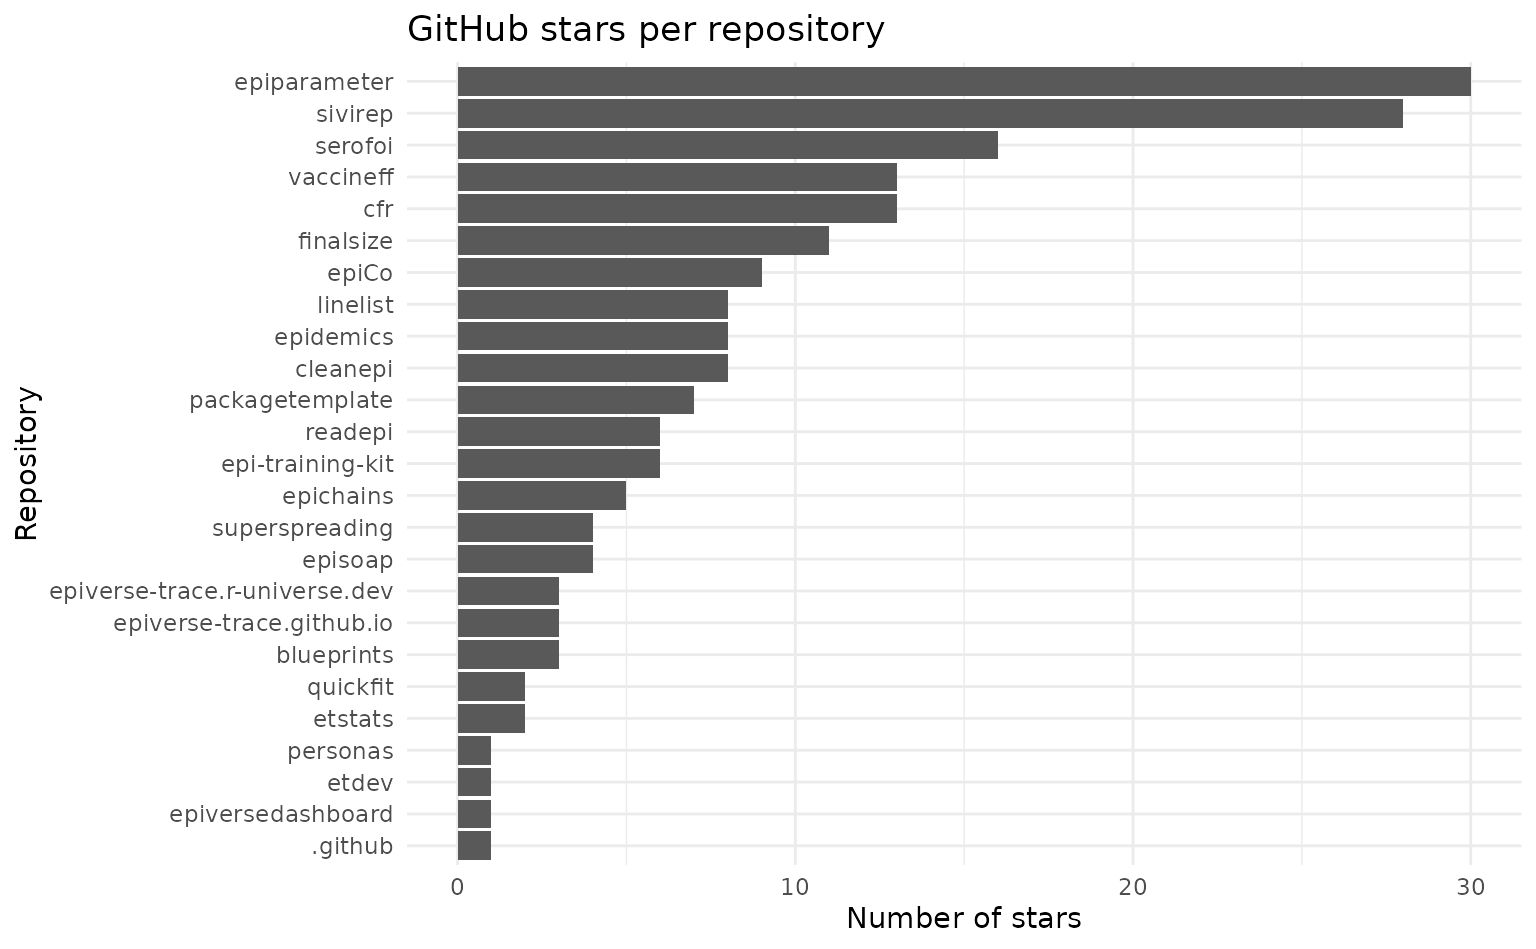
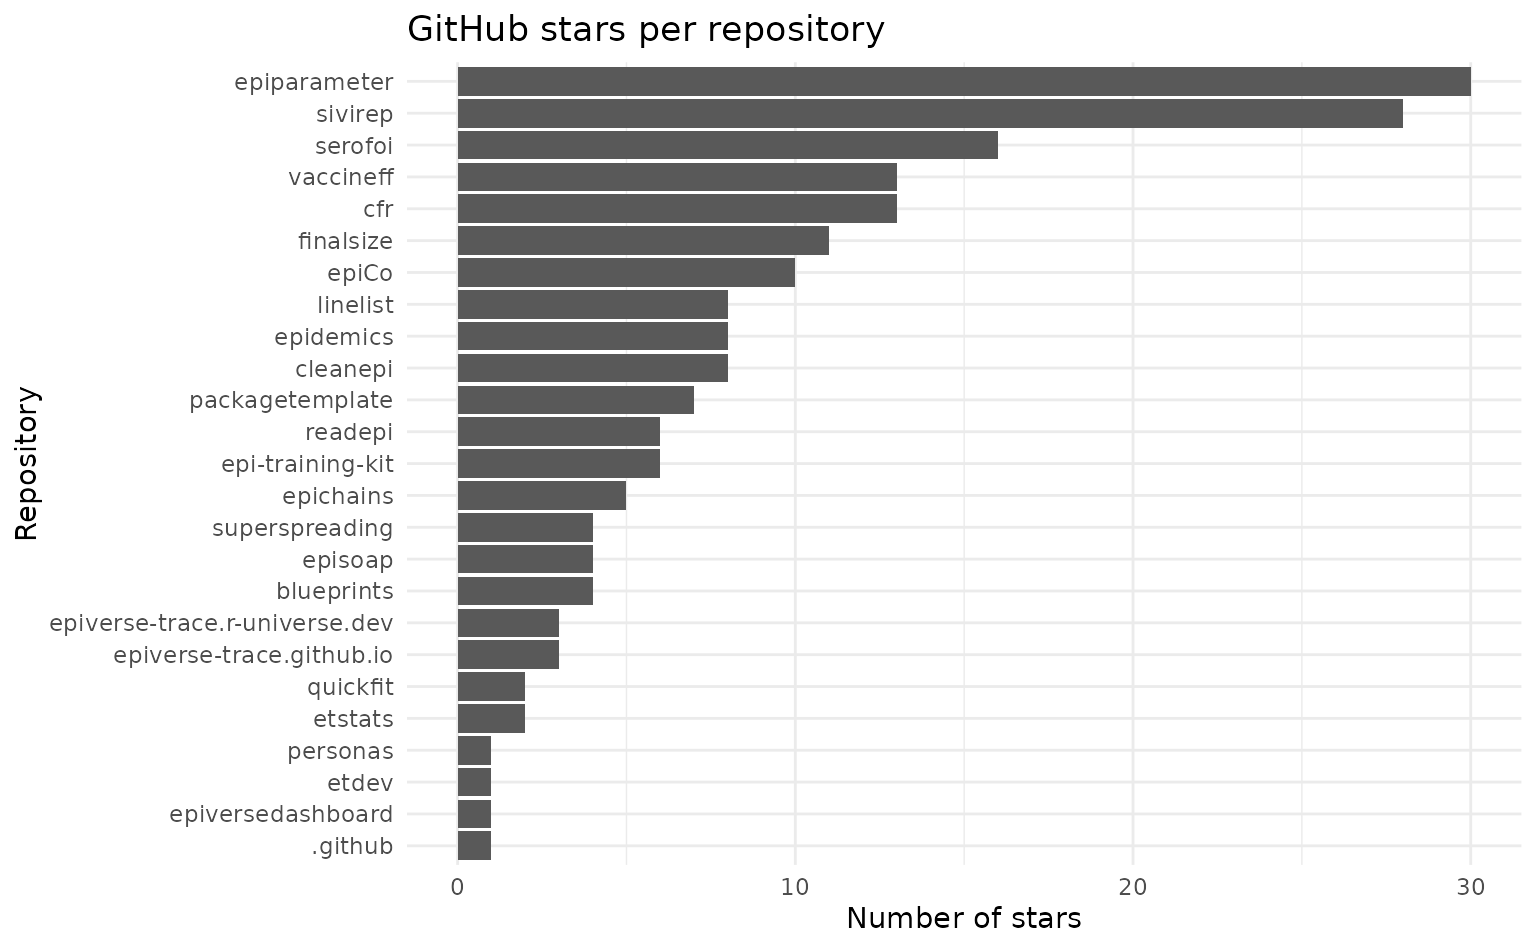
Deploying to gh-pages from @ epiverse-trace/etstats@c73ed3583c87a1893495698bd6479e8f2f792dd1 🚀

Changed region(s): [[0.0312, 0.6112, 0.25, 0.7028], [0.4688, 0.275, 0.5312, 0.3056], [0.3438, 0.6112, 0.4062, 0.6417]]

diff --git a/articles/cran-statistics.html b/articles/cran-statistics.html
@@ -74,7 +74,7 @@
 
       <h1>CRAN statistics</h1>
             
-            <h4 data-toc-skip class="date">2024-08-26</h4>
+            <h4 data-toc-skip class="date">2024-08-27</h4>
       
       <small class="dont-index">Source: <a href="https://github.com/epiverse-trace/etstats/blob/main/vignettes/cran-statistics.Rmd" class="external-link"><code>vignettes/cran-statistics.Rmd</code></a></small>
       <div class="d-none name"><code>cran-statistics.Rmd</code></div>
@@ -91,7 +91,7 @@
 <li><a href="https://cran.r-project.org/package=linelist" class="external-link">linelist</a></li>
 <li><a href="https://cran.r-project.org/package=finalsize" class="external-link">finalsize</a></li>
 </ul>
-<p>In total, Epiverse-TRACE packages on CRAN have been downloaded 26333
+<p>In total, Epiverse-TRACE packages on CRAN have been downloaded 26351
 times.</p>
 <p>Below is a visualization of the breakdown of this grand total by
 package over time.</p>
@@ -108,43 +108,43 @@ package over time.</p>
 <td align="left">finalsize</td>
 <td align="right">260</td>
 <td align="right">2881</td>
-<td align="right">2307</td>
+<td align="right">2311</td>
 </tr>
 <tr class="even">
 <td align="left">linelist</td>
 <td align="right">3712</td>
 <td align="right">4898</td>
-<td align="right">5851</td>
+<td align="right">5859</td>
 </tr>
 <tr class="odd">
 <td align="left">cfr</td>
 <td align="right">NA</td>
 <td align="right">364</td>
-<td align="right">3313</td>
+<td align="right">3316</td>
 </tr>
 <tr class="even">
 <td align="left">cleanepi</td>
 <td align="right">NA</td>
 <td align="right">NA</td>
-<td align="right">709</td>
+<td align="right">710</td>
 </tr>
 <tr class="odd">
 <td align="left">epiCo</td>
 <td align="right">NA</td>
 <td align="right">NA</td>
-<td align="right">432</td>
+<td align="right">433</td>
 </tr>
 <tr class="even">
 <td align="left">numberize</td>
 <td align="right">NA</td>
 <td align="right">NA</td>
-<td align="right">1606</td>
+<td align="right">1607</td>
 </tr>
 <tr class="odd">
 <td align="left">Total</td>
 <td align="right">3972</td>
 <td align="right">8143</td>
-<td align="right">14218</td>
+<td align="right">14236</td>
 </tr>
 </tbody>
 </table></main>

diff --git a/articles/github-statistics.html b/articles/github-statistics.html
@@ -74,7 +74,7 @@
 
       <h1>GitHub statistics</h1>
             
-            <h4 data-toc-skip class="date">2024-08-26</h4>
+            <h4 data-toc-skip class="date">2024-08-27</h4>
       
       <small class="dont-index">Source: <a href="https://github.com/epiverse-trace/etstats/blob/main/vignettes/github-statistics.Rmd" class="external-link"><code>vignettes/github-statistics.Rmd</code></a></small>
       <div class="d-none name"><code>github-statistics.Rmd</code></div>
@@ -85,7 +85,7 @@
 <div class="section level2">
 <h2 id="github-followers">GitHub followers<a class="anchor" aria-label="anchor" href="#github-followers"></a>
 </h2>
-<p>Our Epiverse-TRACE GitHub organization currently has 150
+<p>Our Epiverse-TRACE GitHub organization currently has 151
 followers.</p>
 </div>
 <div class="section level2">
@@ -94,8 +94,8 @@ followers.</p>
 <div class="section level3">
 <h3 id="totals">Totals<a class="anchor" aria-label="anchor" href="#totals"></a>
 </h3>
-<p>In total, we have 193 stars across all Epiverse-TRACE packages. These
-stars come from 114 unique users.</p>
+<p>In total, we have 195 stars across all Epiverse-TRACE packages. These
+stars come from 116 unique users.</p>
 <p><img src="github-statistics_files/figure-html/unnamed-chunk-5-1.png" width="768"></p>
 </div>
 <div class="section level3">
@@ -174,7 +174,7 @@ stars come from 114 unique users.</p>
 <td align="left">epiCo</td>
 <td align="right">0</td>
 <td align="right">3</td>
-<td align="right">6</td>
+<td align="right">7</td>
 </tr>
 <tr class="even">
 <td align="left">epichains</td>
@@ -258,13 +258,13 @@ stars come from 114 unique users.</p>
 <td align="left">blueprints</td>
 <td align="right">0</td>
 <td align="right">0</td>
-<td align="right">3</td>
+<td align="right">4</td>
 </tr>
 <tr class="even">
 <td align="left">Total</td>
 <td align="right">24</td>
 <td align="right">89</td>
-<td align="right">80</td>
+<td align="right">82</td>
 </tr>
 </tbody>
 </table>

diff --git a/articles/citations.html b/articles/citations.html
@@ -129,6 +129,22 @@ Intelligence, 2 and 3 February 2022.” <em>Eurosurveillance</em>,
 <h2 id="package-citations">Package citations<a class="anchor" aria-label="anchor" href="#package-citations"></a>
 </h2>
 <div class="section level3">
+<h3 id="bpmodels">bpmodels<a class="anchor" aria-label="anchor" href="#bpmodels"></a>
+</h3>
+<p>
+</p>
+<ul>
+<li>Whittaker C, Barnsley G, Olivera Mesa D, Laydon DJ, Tan CW, Zhu F,
+Johnson R, Doohan P, Nedjati-Gilani G, Winskill P, Hogan AB, Deol A,
+Mukandavire C, Hauck K, Lye DCB, Wang L, Watson OJ, Ghani AC (2024).
+“Quantifying the impact of a broadly protective sarbecovirus vaccine in
+a future SARS-X pandemic.” <em>medRxiv</em>.
+<a href="https://doi.org/10.1101/2024.08.12.24311730" class="external-link">doi:10.1101/2024.08.12.24311730</a>,
+<a href="https://www.medrxiv.org/content/early/2024/08/12/2024.08.12.24311730.full.pdf" class="external-link uri">https://www.medrxiv.org/content/early/2024/08/12/2024.08.12.24311730.full.pdf</a>,
+<a href="https://www.medrxiv.org/content/early/2024/08/12/2024.08.12.24311730" class="external-link">https://www.medrxiv.org/content/early/2024/08/12/2024.08.12.24311730</a>.</li>
+</ul>
+</div>
+<div class="section level3">
 <h3 id="cfr">cfr<a class="anchor" aria-label="anchor" href="#cfr"></a>
 </h3>
 <p>
